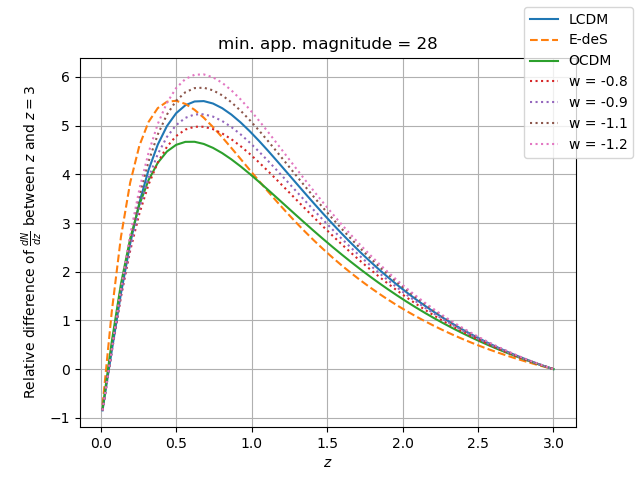
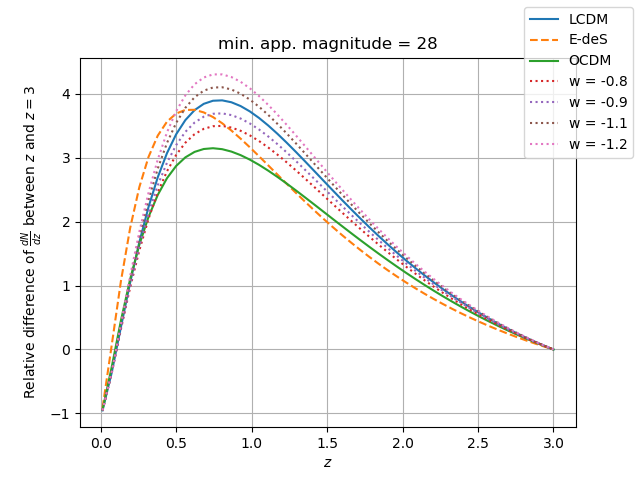
fixed errors made in previous commit for varying alpha

diff --git a/Python/findVol.py b/Python/findVol.py
@@ -458,64 +458,65 @@ plt.grid()
 # ax14.set_ylabel(r"Relative difference of $\frac{dN}{dz}$ between $z$ and $z=$" + str(z_ref))
 # ax14.set_xlabel(r"$z$")
 # ax14.set_title("min. app. magnitude = " + str(magnitude_min))
-# ax14.plot(z, delta_galaxy_number_rel_z_vec(z, z_ref, magnitude_min, 10.66, 2.88e-3, 0, alpha(0, -0.093, -1.3), -1.47, 0.3, 0, 0.7, 'LCDM', h=h_today), '-', label='LCDM')
-# ax14.plot(z, delta_galaxy_number_rel_z_vec(z, z_ref, magnitude_min, 10.66, 2.88e-3, 0, alpha(0, -0.093, -1.3), -1.47, 1, 0, 0, 'LCDM', h=h_today), '--', label='E-deS')
-# ax14.plot(z, delta_galaxy_number_rel_z_vec(z, z_ref, magnitude_min, 10.66, 2.88e-3, 0, alpha(0, -0.093, -1.3), -1.47, 0.3, 0.7, 0, 'LCDM', h=h_today), '-', label='OCDM')
-# ax14.plot(z, delta_galaxy_number_rel_z_vec(z, z_ref, magnitude_min, 10.66, 2.88e-3, 0, alpha(0, -0.093, -1.3), -1.47, 0.3, 0, 0.7, model = 'constant_w', w_0 = -0.8, h=h_today), ':', label='w = -0.8')
-# ax14.plot(z, delta_galaxy_number_rel_z_vec(z, z_ref, magnitude_min, 10.66, 2.88e-3, 0, alpha(0, -0.093, -1.3), -1.47, 0.3, 0, 0.7, model = 'constant_w', w_0 = -0.9, h=h_today), ':', label='w = -0.9')
-# ax14.plot(z, delta_galaxy_number_rel_z_vec(z, z_ref, magnitude_min, 10.66, 2.88e-3, 0, alpha(0, -0.093, -1.3), -1.47, 0.3, 0, 0.7, model = 'constant_w', w_0 = -1.1, h=h_today), ':', label='w = -1.1')
-# ax14.plot(z, delta_galaxy_number_rel_z_vec(z, z_ref, magnitude_min, 10.66, 2.88e-3, 0, alpha(0, -0.093, -1.3), -1.47, 0.3, 0, 0.7, model = 'constant_w', w_0 = -1.2, h=h_today), ':', label='w = -1.2')
+# ax14.plot(z, delta_galaxy_number_rel_z_vec(z, z_ref, magnitude_min, 10.66, 2.88e-3, 0, alpha(z, -0.093, -1.3), -1.47, 0.3, 0, 0.7, 'LCDM', h=h_today), '-', label='LCDM')
+# ax14.plot(z, delta_galaxy_number_rel_z_vec(z, z_ref, magnitude_min, 10.66, 2.88e-3, 0, alpha(z, -0.093, -1.3), -1.47, 1, 0, 0, 'LCDM', h=h_today), '--', label='E-deS')
+# ax14.plot(z, delta_galaxy_number_rel_z_vec(z, z_ref, magnitude_min, 10.66, 2.88e-3, 0, alpha(z, -0.093, -1.3), -1.47, 0.3, 0.7, 0, 'LCDM', h=h_today), '-', label='OCDM')
+# ax14.plot(z, delta_galaxy_number_rel_z_vec(z, z_ref, magnitude_min, 10.66, 2.88e-3, 0, alpha(z, -0.093, -1.3), -1.47, 0.3, 0, 0.7, model = 'constant_w', w_0 = -0.8, h=h_today), ':', label='w = -0.8')
+# ax14.plot(z, delta_galaxy_number_rel_z_vec(z, z_ref, magnitude_min, 10.66, 2.88e-3, 0, alpha(z, -0.093, -1.3), -1.47, 0.3, 0, 0.7, model = 'constant_w', w_0 = -0.9, h=h_today), ':', label='w = -0.9')
+# ax14.plot(z, delta_galaxy_number_rel_z_vec(z, z_ref, magnitude_min, 10.66, 2.88e-3, 0, alpha(z, -0.093, -1.3), -1.47, 0.3, 0, 0.7, model = 'constant_w', w_0 = -1.1, h=h_today), ':', label='w = -1.1')
+# ax14.plot(z, delta_galaxy_number_rel_z_vec(z, z_ref, magnitude_min, 10.66, 2.88e-3, 0, alpha(z, -0.093, -1.3), -1.47, 0.3, 0, 0.7, model = 'constant_w', w_0 = -1.2, h=h_today), ':', label='w = -1.2')
 
 # fig14.legend()
 # plt.grid()
 
-# Relative difference using steady alpha
-fig14_1, ax14_1 = plt.subplots()
-ax14_1.set_ylabel(r"Relative difference of $\frac{dN}{dz}$ between $z$ and $z=$" + str(z_ref))
-ax14_1.set_xlabel(r"$z$")
-ax14_1.set_title("min. app. magnitude = " + str(magnitude_min))
-ax14_1.plot(z, delta_galaxy_number_rel_z_vec(z, z_ref, magnitude_min, 10.66, 2.88e-3, 0, -1.41, -1.47, 0.3, 0, 0.7, 'LCDM', h=h_today), '-', label='LCDM')
-ax14_1.plot(z, delta_galaxy_number_rel_z_vec(z, z_ref, magnitude_min, 10.66, 2.88e-3, 0, -1.41, -1.47, 1, 0, 0, 'LCDM', h=h_today), '--', label='E-deS')
-ax14_1.plot(z, delta_galaxy_number_rel_z_vec(z, z_ref, magnitude_min, 10.66, 2.88e-3, 0, -1.41, -1.47, 0.3, 0.7, 0, 'LCDM', h=h_today), '-', label='OCDM')
-ax14_1.plot(z, delta_galaxy_number_rel_z_vec(z, z_ref, magnitude_min, 10.66, 2.88e-3, 0, -1.41, -1.47, 0.3, 0, 0.7, model = 'constant_w', w_0 = -0.8, h=h_today), ':', label='w = -0.8')
-ax14_1.plot(z, delta_galaxy_number_rel_z_vec(z, z_ref, magnitude_min, 10.66, 2.88e-3, 0, -1.41, -1.47, 0.3, 0, 0.7, model = 'constant_w', w_0 = -0.9, h=h_today), ':', label='w = -0.9')
-ax14_1.plot(z, delta_galaxy_number_rel_z_vec(z, z_ref, magnitude_min, 10.66, 2.88e-3, 0, -1.41, -1.47, 0.3, 0, 0.7, model = 'constant_w', w_0 = -1.1, h=h_today), ':', label='w = -1.1')
-ax14_1.plot(z, delta_galaxy_number_rel_z_vec(z, z_ref, magnitude_min, 10.66, 2.88e-3, 0, -1.41, -1.47, 0.3, 0, 0.7, model = 'constant_w', w_0 = -1.2, h=h_today), ':', label='w = -1.2')
+# Relative difference using constant alpha
+# fig14_1, ax14_1 = plt.subplots()
+# ax14_1.set_ylabel(r"Relative difference of $\frac{dN}{dz}$ between $z$ and $z=$" + str(z_ref))
+# ax14_1.set_xlabel(r"$z$")
+# ax14_1.set_title("min. app. magnitude = " + str(magnitude_min))
+# ax14_1.plot(z, delta_galaxy_number_rel_z_vec(z, z_ref, magnitude_min, 10.66, 2.88e-3, 0, alpha(0, -0.093, -1.3), -1.47, 0.3, 0, 0.7, 'LCDM', h=h_today), '-', label='LCDM')
+# ax14_1.plot(z, delta_galaxy_number_rel_z_vec(z, z_ref, magnitude_min, 10.66, 2.88e-3, 0, alpha(0, -0.093, -1.3), -1.47, 1, 0, 0, 'LCDM', h=h_today), '--', label='E-deS')
+# ax14_1.plot(z, delta_galaxy_number_rel_z_vec(z, z_ref, magnitude_min, 10.66, 2.88e-3, 0, alpha(0, -0.093, -1.3), -1.47, 0.3, 0.7, 0, 'LCDM', h=h_today), '-', label='OCDM')
+# ax14_1.plot(z, delta_galaxy_number_rel_z_vec(z, z_ref, magnitude_min, 10.66, 2.88e-3, 0, alpha(0, -0.093, -1.3), -1.47, 0.3, 0, 0.7, model = 'constant_w', w_0 = -0.8, h=h_today), ':', label='w = -0.8')
+# ax14_1.plot(z, delta_galaxy_number_rel_z_vec(z, z_ref, magnitude_min, 10.66, 2.88e-3, 0, alpha(0, -0.093, -1.3), -1.47, 0.3, 0, 0.7, model = 'constant_w', w_0 = -0.9, h=h_today), ':', label='w = -0.9')
+# ax14_1.plot(z, delta_galaxy_number_rel_z_vec(z, z_ref, magnitude_min, 10.66, 2.88e-3, 0, alpha(0, -0.093, -1.3), -1.47, 0.3, 0, 0.7, model = 'constant_w', w_0 = -1.1, h=h_today), ':', label='w = -1.1')
+# ax14_1.plot(z, delta_galaxy_number_rel_z_vec(z, z_ref, magnitude_min, 10.66, 2.88e-3, 0, alpha(0, -0.093, -1.3), -1.47, 0.3, 0, 0.7, model = 'constant_w', w_0 = -1.2, h=h_today), ':', label='w = -1.2')
 
-fig14_1.legend()
-plt.grid()
-
+# fig14_1.legend()
+# plt.grid()
 
 #---------------Plot of absolute number of galaxies per sqd with varying alpha---------------
-fig15, ax15 = plt.subplots()
-ax15.set_ylabel(r"$\frac{dN}{dz}$")
-ax15.set_xlabel(r"$z$")
-ax15.set_title("min. app. magnitude = " + str(magnitude_min) + ", per square degree")
-ax15.plot(z, galaxy_number_vec(z, magnitude_min, 10.66, 2.88e-3, 0, -1.41, -1.47, 0.3, 0, 0.7, 'LCDM', h=h_today), '-', label='LCDM')
-ax15.plot(z, galaxy_number_vec(z, magnitude_min, 10.66, 2.88e-3, 0, -1.41, -1.47, 1, 0, 0, 'LCDM', h=h_today), '--', label='E-deS')
-ax15.plot(z, galaxy_number_vec(z, magnitude_min, 10.66, 2.88e-3, 0, -1.41, -1.47, 0.3, 0.7, 0, 'LCDM', h=h_today), '-', label='OCDM')
-ax15.plot(z, galaxy_number_vec(z, magnitude_min, 10.66, 2.88e-3, 0, -1.41, -1.47, 0.3, 0, 0.7, model = 'constant_w', w_0 = -0.8, h=h_today), ':', label='w = -0.8')
-ax15.plot(z, galaxy_number_vec(z, magnitude_min, 10.66, 2.88e-3, 0, -1.41, -1.47, 0.3, 0, 0.7, model = 'constant_w', w_0 = -0.9, h=h_today), ':', label='w = -0.9')
-ax15.plot(z, galaxy_number_vec(z, magnitude_min, 10.66, 2.88e-3, 0, -1.41, -1.47, 0.3, 0, 0.7, model = 'constant_w', w_0 = -1.1, h=h_today), ':', label='w = -1.1')
-ax15.plot(z, galaxy_number_vec(z, magnitude_min, 10.66, 2.88e-3, 0, -1.41, -1.47, 0.3, 0, 0.7, model = 'constant_w', w_0 = -1.2, h=h_today), ':', label='w = -1.2')
-
-fig15.legend()
-plt.grid()
-
-#---------------Plot of absolute number of galaxies per sqd with constant alpha---------------
 fig15_1, ax15_1 = plt.subplots()
 ax15_1.set_ylabel(r"$\frac{dN}{dz}$")
 ax15_1.set_xlabel(r"$z$")
 ax15_1.set_title("min. app. magnitude = " + str(magnitude_min) + ", per square degree")
-ax15_1.plot(z, galaxy_number_vec(z, magnitude_min, 10.66, 2.88e-3, 0, alpha(0, -0.093, -1.3), -1.47, 0.3, 0, 0.7, 'LCDM', h=h_today), '-', label='LCDM')
-ax15_1.plot(z, galaxy_number_vec(z, magnitude_min, 10.66, 2.88e-3, 0, alpha(0, -0.093, -1.3), -1.47, 1, 0, 0, 'LCDM', h=h_today), '--', label='E-deS')
-ax15_1.plot(z, galaxy_number_vec(z, magnitude_min, 10.66, 2.88e-3, 0, alpha(0, -0.093, -1.3), -1.47, 0.3, 0.7, 0, 'LCDM', h=h_today), '-', label='OCDM')
-ax15_1.plot(z, galaxy_number_vec(z, magnitude_min, 10.66, 2.88e-3, 0, alpha(0, -0.093, -1.3), -1.47, 0.3, 0, 0.7, model = 'constant_w', w_0 = -0.8, h=h_today), ':', label='w = -0.8')
-ax15_1.plot(z, galaxy_number_vec(z, magnitude_min, 10.66, 2.88e-3, 0, alpha(0, -0.093, -1.3), -1.47, 0.3, 0, 0.7, model = 'constant_w', w_0 = -0.9, h=h_today), ':', label='w = -0.9')
-ax15_1.plot(z, galaxy_number_vec(z, magnitude_min, 10.66, 2.88e-3, 0, alpha(0, -0.093, -1.3), -1.47, 0.3, 0, 0.7, model = 'constant_w', w_0 = -1.1, h=h_today), ':', label='w = -1.1')
-ax15_1.plot(z, galaxy_number_vec(z, magnitude_min, 10.66, 2.88e-3, 0, alpha(0, -0.093, -1.3), -1.47, 0.3, 0, 0.7, model = 'constant_w', w_0 = -1.2, h=h_today), ':', label='w = -1.2')
+ax15_1.plot(z, galaxy_number_vec(z, magnitude_min, 10.66, 2.88e-3, 0, alpha(z, -0.093, -1.3), -1.47, 0.3, 0, 0.7, 'LCDM', h=h_today), '-', label='LCDM')
+ax15_1.plot(z, galaxy_number_vec(z, magnitude_min, 10.66, 2.88e-3, 0, alpha(z, -0.093, -1.3), -1.47, 1, 0, 0, 'LCDM', h=h_today), '--', label='E-deS')
+ax15_1.plot(z, galaxy_number_vec(z, magnitude_min, 10.66, 2.88e-3, 0, alpha(z, -0.093, -1.3), -1.47, 0.3, 0.7, 0, 'LCDM', h=h_today), '-', label='OCDM')
+ax15_1.plot(z, galaxy_number_vec(z, magnitude_min, 10.66, 2.88e-3, 0, alpha(z, -0.093, -1.3), -1.47, 0.3, 0, 0.7, model = 'constant_w', w_0 = -0.8, h=h_today), ':', label='w = -0.8')
+ax15_1.plot(z, galaxy_number_vec(z, magnitude_min, 10.66, 2.88e-3, 0, alpha(z, -0.093, -1.3), -1.47, 0.3, 0, 0.7, model = 'constant_w', w_0 = -0.9, h=h_today), ':', label='w = -0.9')
+ax15_1.plot(z, galaxy_number_vec(z, magnitude_min, 10.66, 2.88e-3, 0, alpha(z, -0.093, -1.3), -1.47, 0.3, 0, 0.7, model = 'constant_w', w_0 = -1.1, h=h_today), ':', label='w = -1.1')
+ax15_1.plot(z, galaxy_number_vec(z, magnitude_min, 10.66, 2.88e-3, 0, alpha(z, -0.093, -1.3), -1.47, 0.3, 0, 0.7, model = 'constant_w', w_0 = -1.2, h=h_today), ':', label='w = -1.2')
 
 fig15_1.legend()
 plt.grid()
+
+
+#---------------Plot of absolute number of galaxies per sqd with constant alpha---------------
+fig15, ax15 = plt.subplots()
+ax15.set_ylabel(r"$\frac{dN}{dz}$")
+ax15.set_xlabel(r"$z$")
+ax15.set_title("min. app. magnitude = " + str(magnitude_min) + ", per square degree")
+ax15.plot(z, galaxy_number_vec(z, magnitude_min, 10.66, 2.88e-3, 0, alpha(0, -0.093, -1.3), -1.47, 0.3, 0, 0.7, 'LCDM', h=h_today), '-', label='LCDM')
+ax15.plot(z, galaxy_number_vec(z, magnitude_min, 10.66, 2.88e-3, 0, alpha(0, -0.093, -1.3), -1.47, 1, 0, 0, 'LCDM', h=h_today), '--', label='E-deS')
+ax15.plot(z, galaxy_number_vec(z, magnitude_min, 10.66, 2.88e-3, 0, alpha(0, -0.093, -1.3), -1.47, 0.3, 0.7, 0, 'LCDM', h=h_today), '-', label='OCDM')
+ax15.plot(z, galaxy_number_vec(z, magnitude_min, 10.66, 2.88e-3, 0, alpha(0, -0.093, -1.3), -1.47, 0.3, 0, 0.7, model = 'constant_w', w_0 = -0.8, h=h_today), ':', label='w = -0.8')
+ax15.plot(z, galaxy_number_vec(z, magnitude_min, 10.66, 2.88e-3, 0, alpha(0, -0.093, -1.3), -1.47, 0.3, 0, 0.7, model = 'constant_w', w_0 = -0.9, h=h_today), ':', label='w = -0.9')
+ax15.plot(z, galaxy_number_vec(z, magnitude_min, 10.66, 2.88e-3, 0, alpha(0, -0.093, -1.3), -1.47, 0.3, 0, 0.7, model = 'constant_w', w_0 = -1.1, h=h_today), ':', label='w = -1.1')
+ax15.plot(z, galaxy_number_vec(z, magnitude_min, 10.66, 2.88e-3, 0, alpha(0, -0.093, -1.3), -1.47, 0.3, 0, 0.7, model = 'constant_w', w_0 = -1.2, h=h_today), ':', label='w = -1.2')
+
+fig15.legend()
+plt.grid()
+
 
 plt.show()
